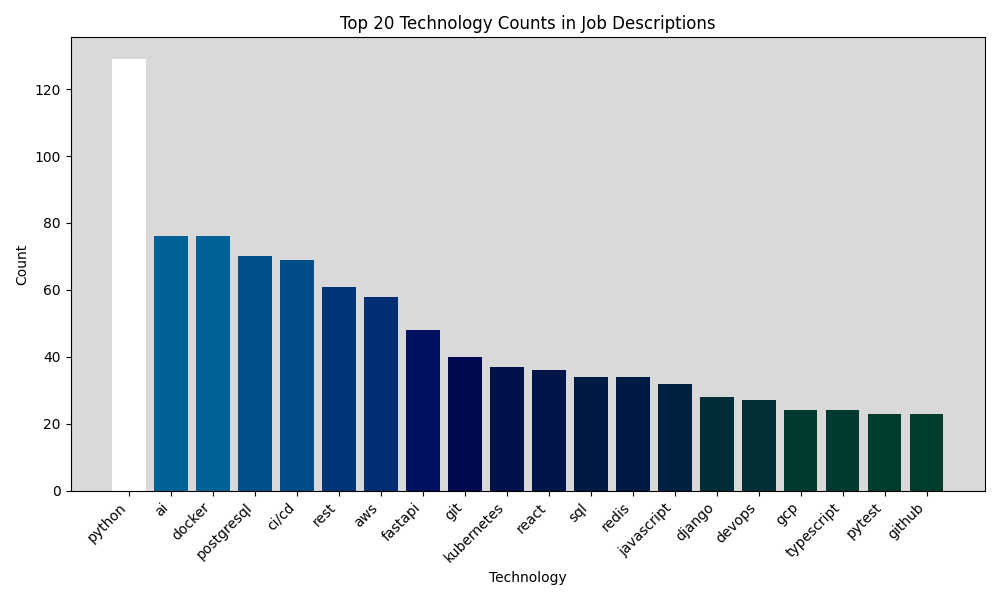
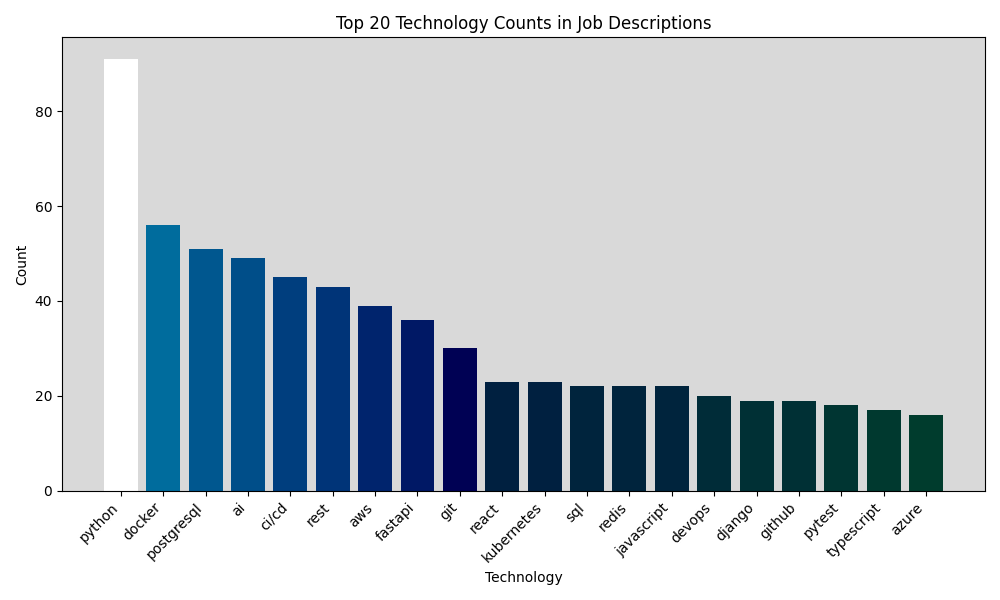
Fix CI/CD

diff --git a/analytics/data/index.html b/analytics/data/index.html
@@ -108,11 +108,11 @@
         <h2>Key Job Tech Trends <span class="badge">📈</span></h2>
         <div class="metrics">
             <div class="metric">
-                <div class="value">150</div>
+                <div class="value">100</div>
                 <div class="label">Total Jobs Scraped</div>
             </div>
             <div class="metric">
-                <div class="value">23-09-2026</div>
+                <div class="value">25-09-2026</div>
                 <div class="label">Report Date</div>
             </div>
             <div class="metric">
@@ -121,7 +121,7 @@
             </div>
         </div>
         <div class="highlight">
-            #1 Skill: <strong>python</strong> — 129 mentions
+            #1 Skill: <strong>python</strong> — 91 mentions
         </div>
     </div>
 
@@ -134,7 +134,15 @@
 
     <div class="card">
         <h2>Gemini AI Market Strategy & Target Roles</h2>
-        <div class="ai-box">None</div>
+        <div class="ai-box">**Career Advice:**
+1. Master Python alongside modern API frameworks like FastAPI and relational databases like PostgreSQL.
+2. Build strong cloud-native skills by learning containerization with Docker and deployment using AWS and CI/CD pipelines.
+3. Integrate practical AI and machine learning capabilities into your projects to capture the fastest-growing market demand.
+
+**Top 3 Career Fields to Target:**
+1. **Python Backend Engineering** (driven by high demand for Python, PostgreSQL, REST, and FastAPI)
+2. **AI / Machine Learning Engineering** (driven by the massive surge in AI and ML requirements)
+3. **Cloud & DevOps Engineering** (driven by heavy emphasis on Docker, CI/CD, AWS, and Kubernetes)</div>
     </div>
 
     <footer>Thanks for visiting 😋</footer>
